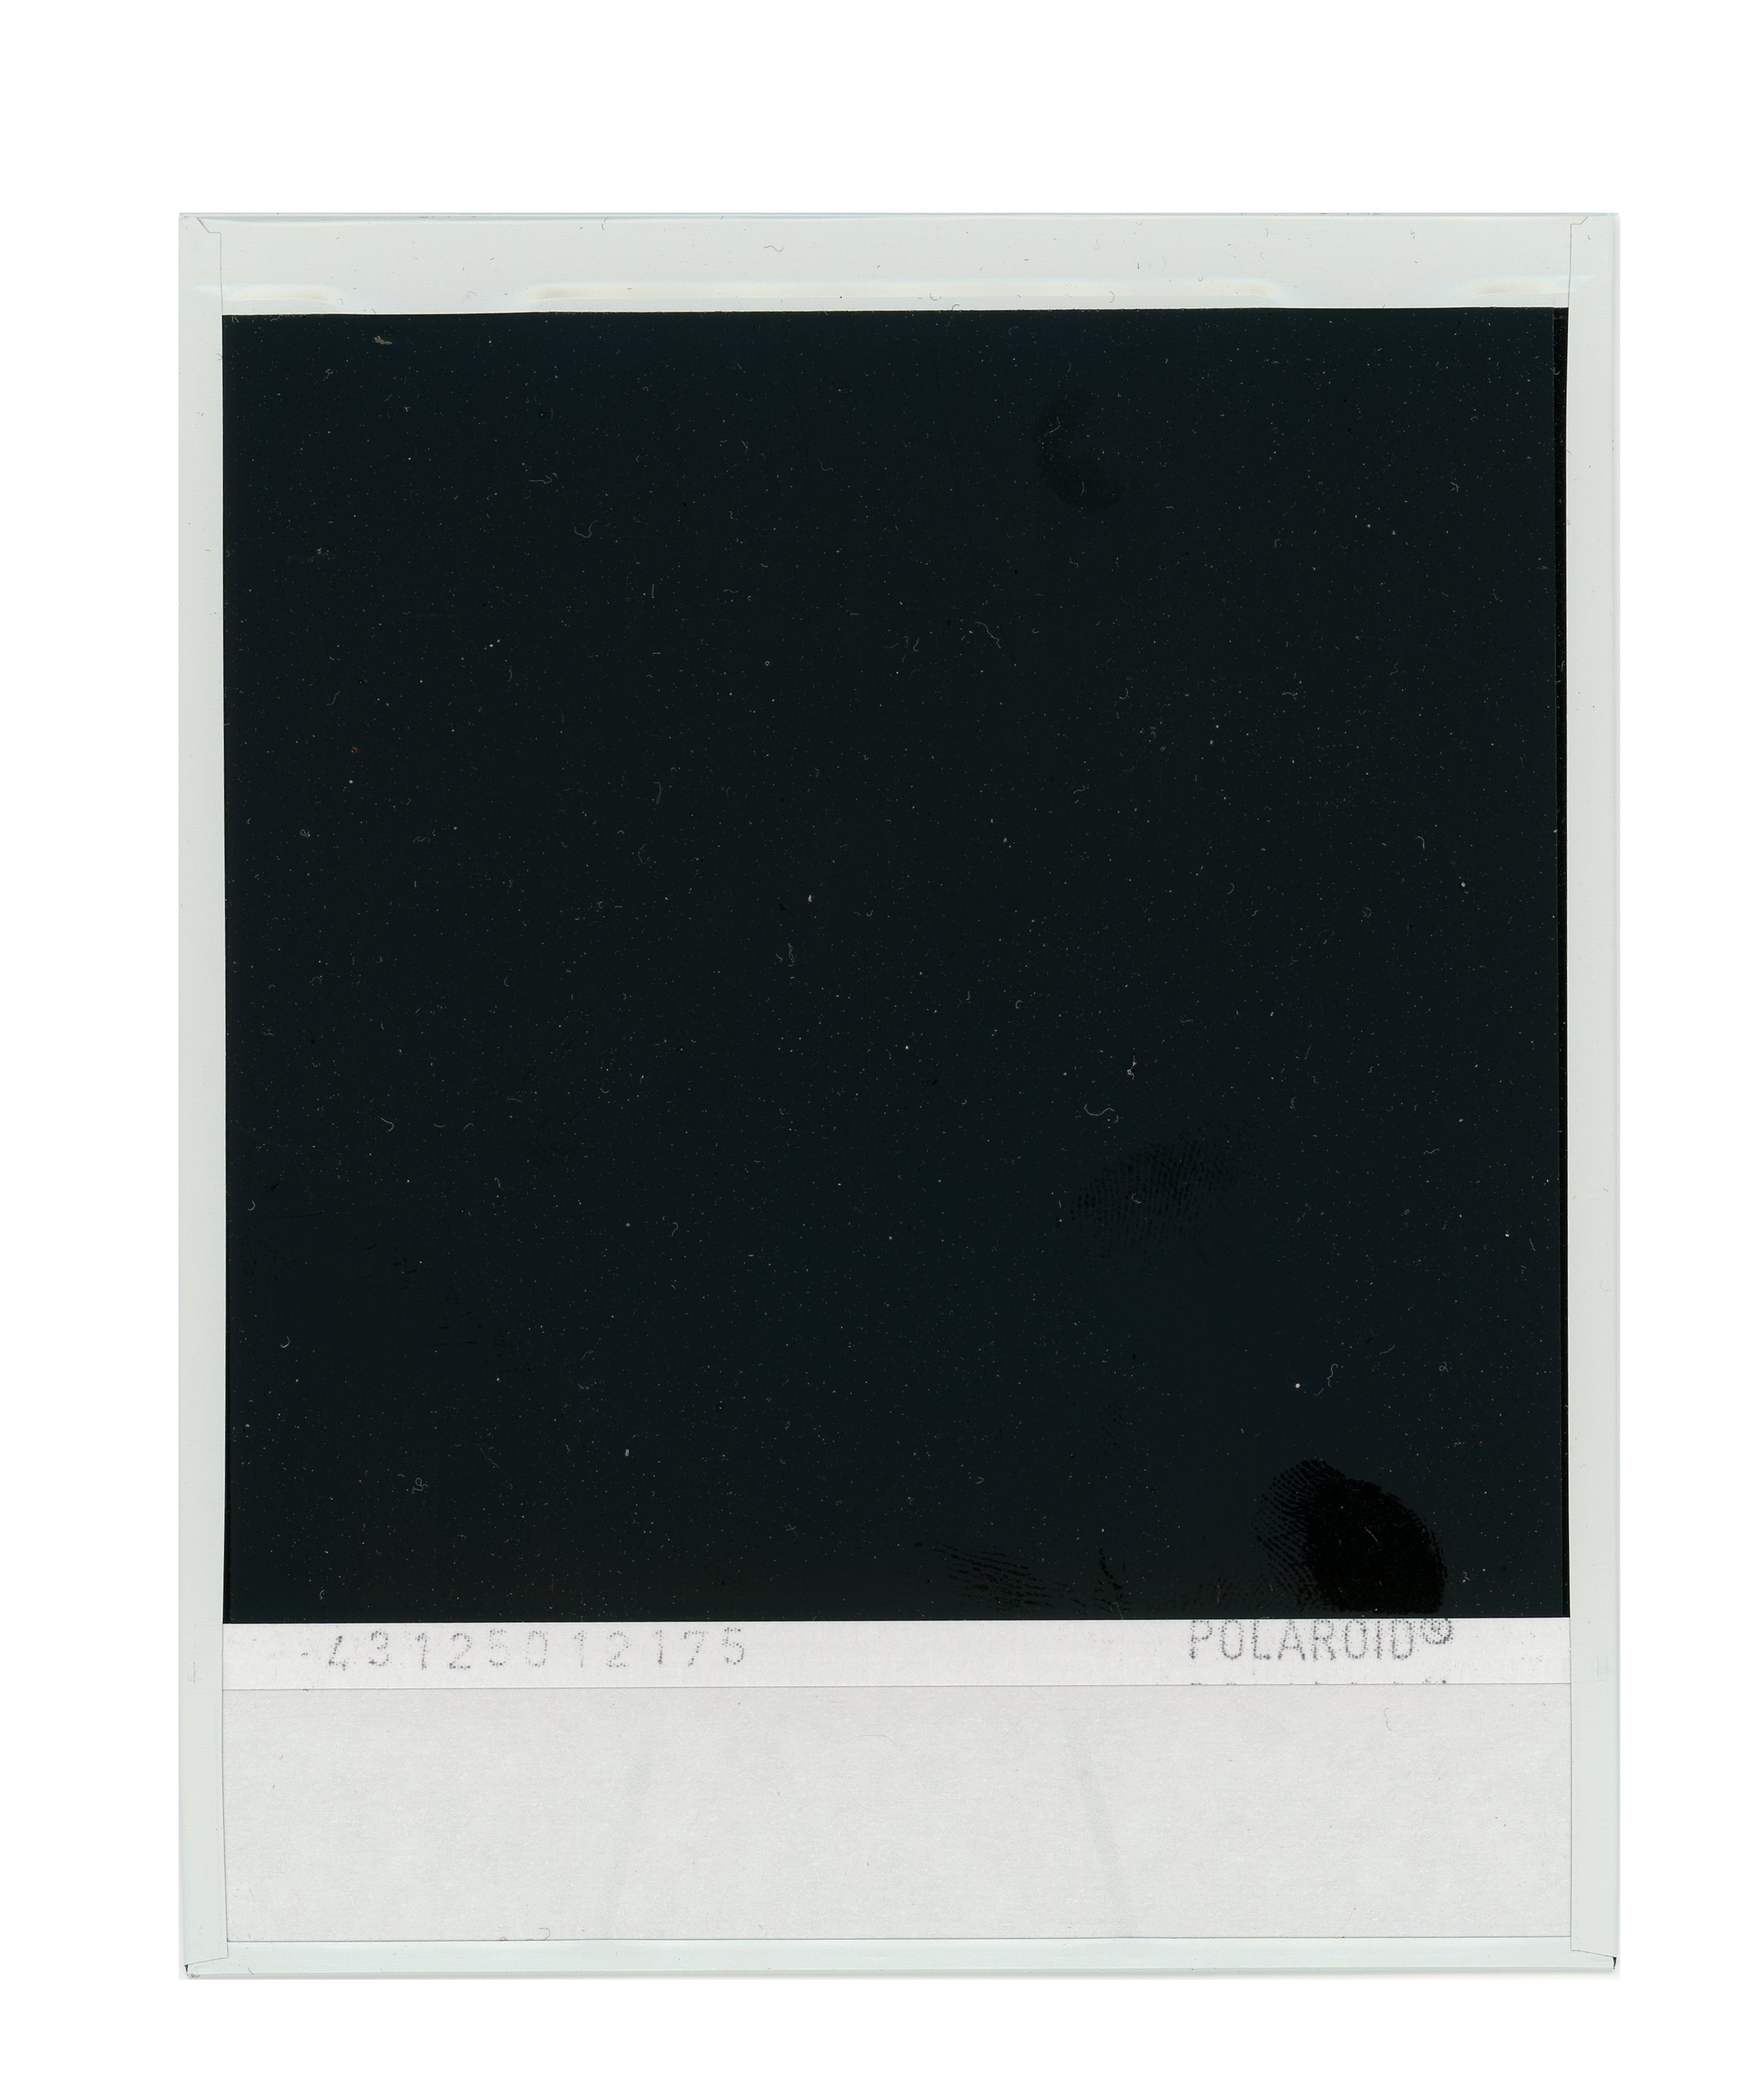
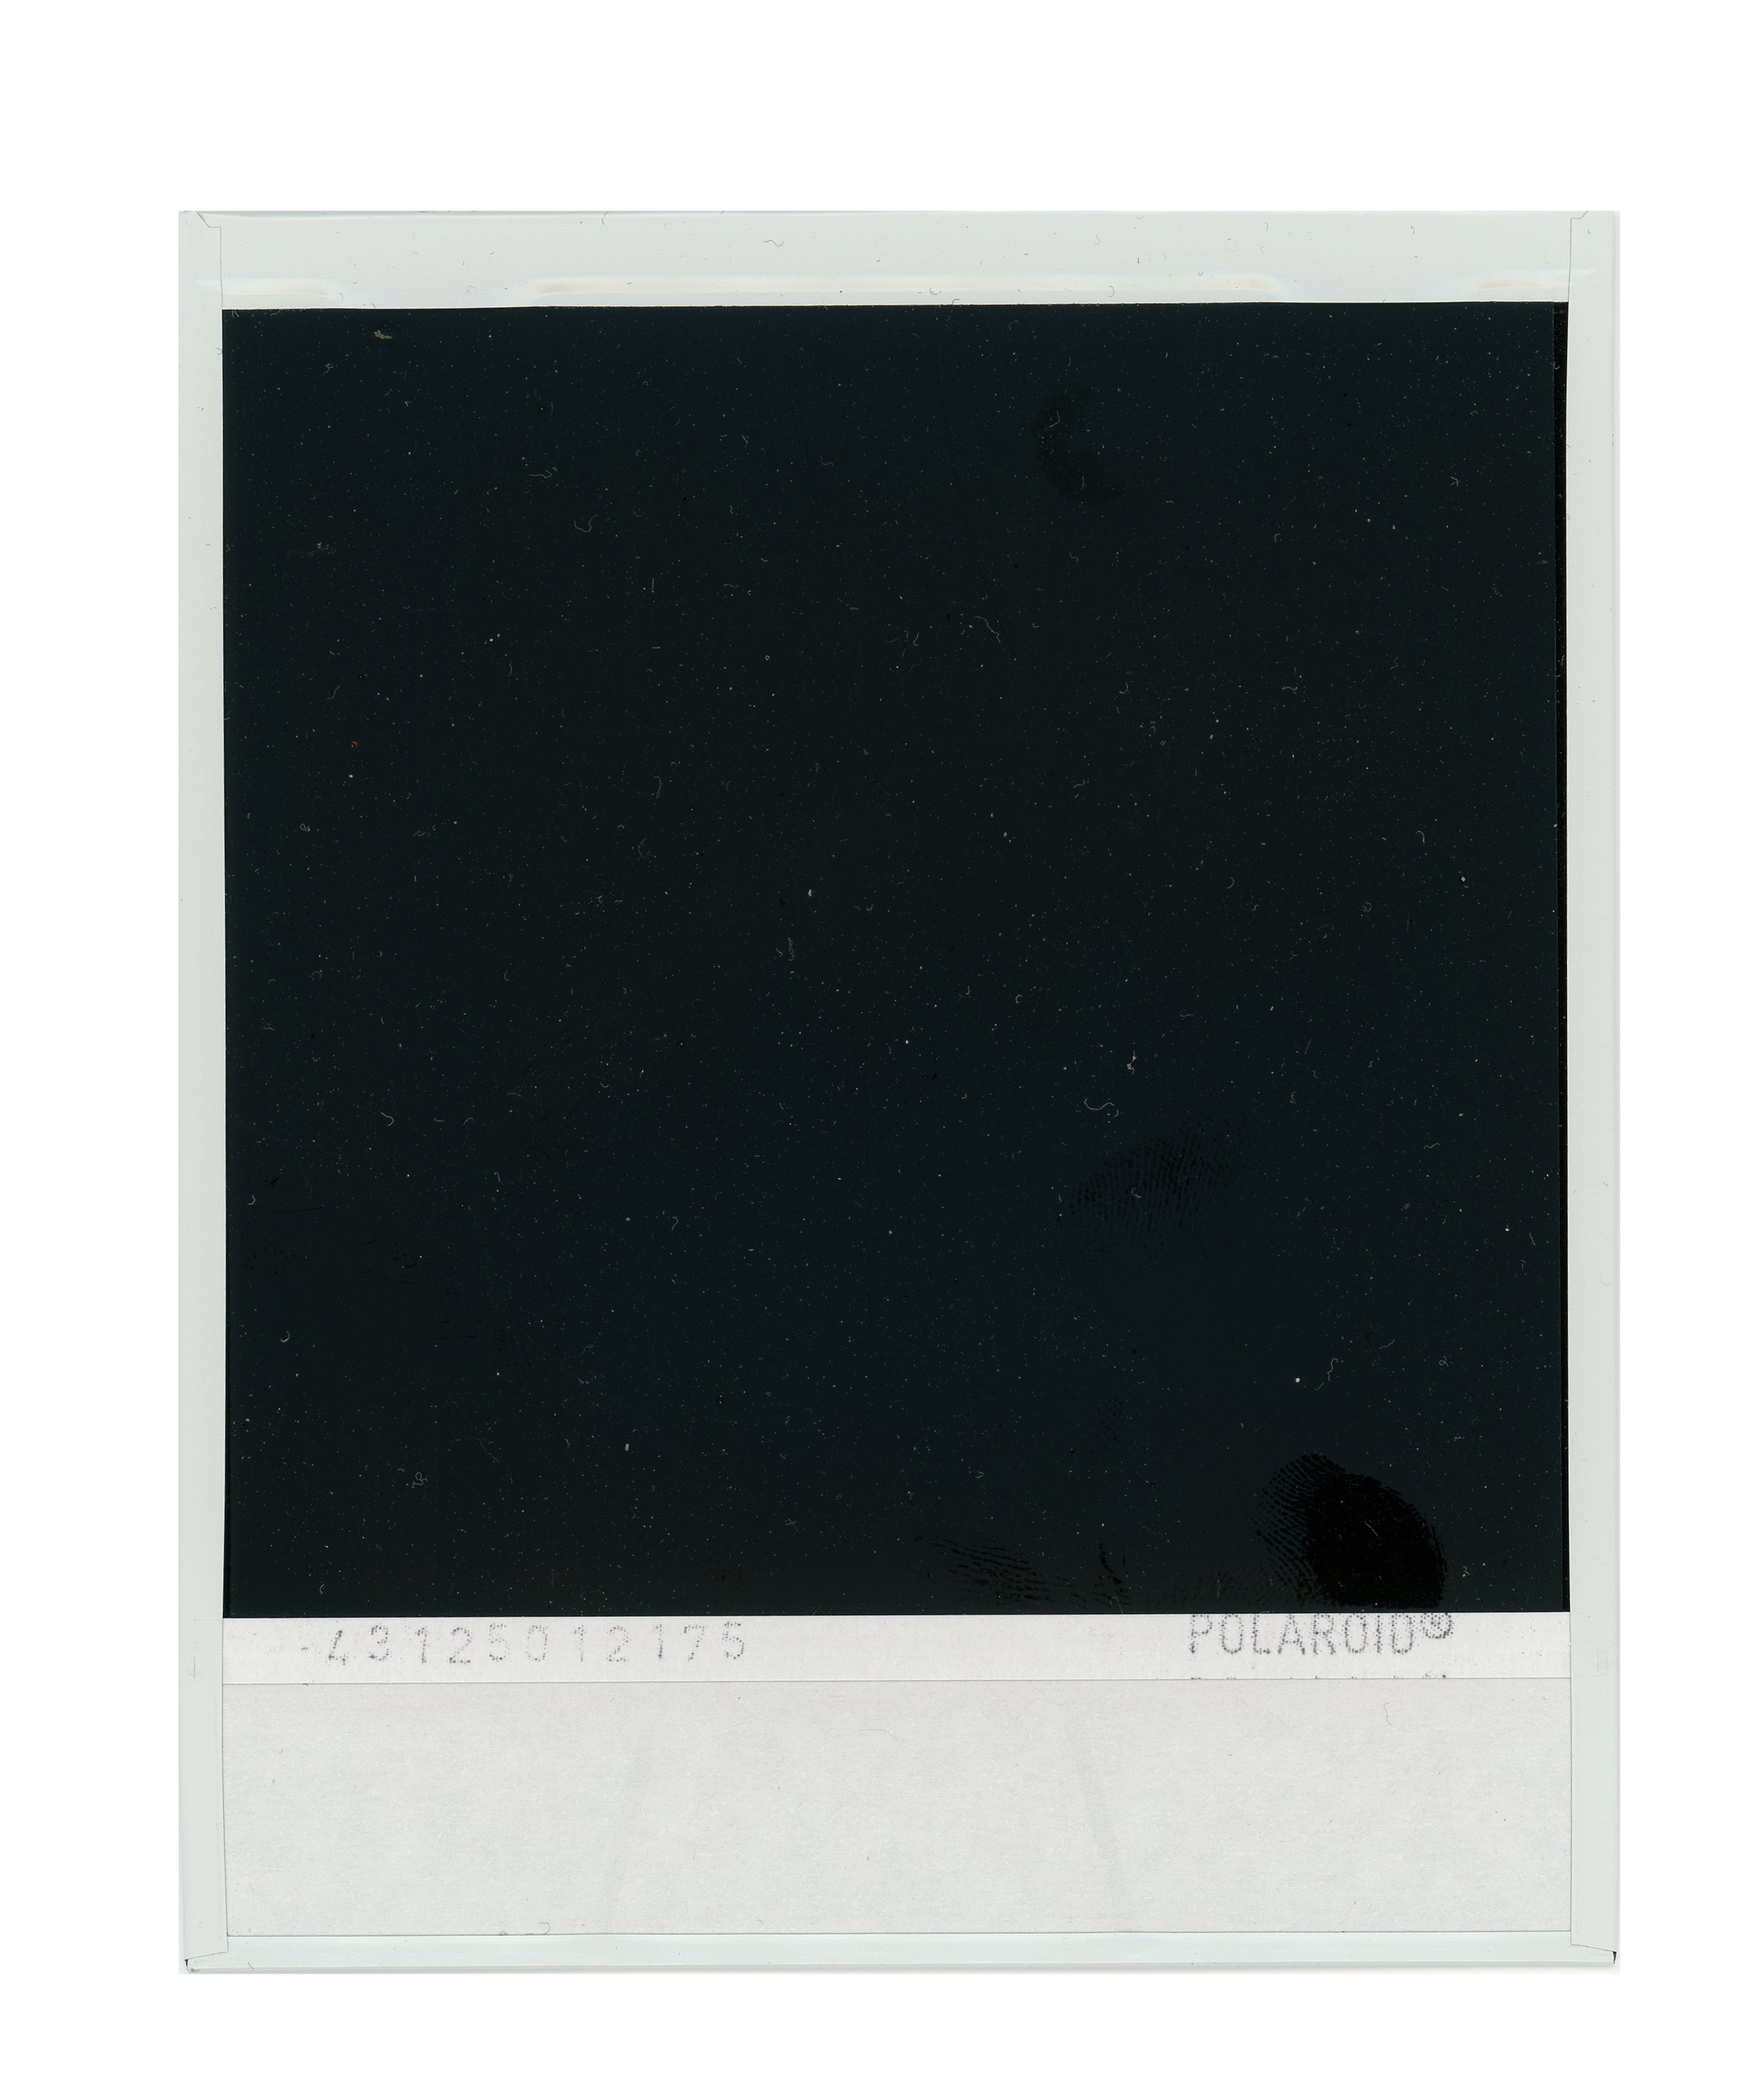
pretty much done with polaroid front

diff --git a/src/components/Polaroid/Polaroid.jsx b/src/components/Polaroid/Polaroid.jsx
@@ -2,12 +2,30 @@ import polaroidFront from '../../frames/polaroid/polaroid-front.png'
 import testImage from '../../../local-test-images/demo.gif'
 import './styles.css'
 
-export const Polaroid = ({ imgurl }) => {
+export const Polaroid = ({ imgurl, size=10, photoScale = 1, photoScaleX=1, photoScaleY=1, position=0, positionTop=0, positionLeft=0 }) => {
+
+    if(parseInt(size) < 1 || parseInt(size) >= 10){
+        size = 1
+    } else {
+        size = "." + size
+    }
+
+    if(photoScaleX != 1 || photoScaleY != 1){
+        photoScale = `${photoScaleX}, ${photoScaleY}`
+    }
+
+    if(positionLeft != 0 || positionTop != 0){
+        position = `${positionLeft}px ${positionTop}px`
+    }
 
     return (
     <>
-        <img className="frame" src={ polaroidFront } style={{maxHeight: "1000px", maxWidth: "800px"}}></img>
-        <img className="image" src={ testImage }></img>
+        <div className="container" style={{transform: `scale(${size})`}}>
+            <img className="frame" src={ polaroidFront } style={{maxHeight: "1000px", maxWidth: "800px"}}></img>
+            <div className="image">
+                <img className="innerImage" src={ imgurl } style={{transform: `scale(${photoScale})`, objectPosition: `${position}`}}></img>
+            </div>
+        </div>
     </>
     )
 }

diff --git a/src/components/Polaroid/styles.css b/src/components/Polaroid/styles.css
@@ -3,11 +3,30 @@
   top: 0;
   left: 0;
   z-index: 1;
+  -webkit-user-select: none; /* Chrome all / Safari all */
+  -moz-user-select: none; /* Firefox all */
+  -ms-user-select: none; /* IE 10+ */
+  -o-user-select: none;
+  user-select: none;
 }
 
 .image {
   position: absolute;
-  top: 150px;
-  left: 120px;
+  top: 149px;
+  left: 125px;
+  height: 600px;
+  width: 580px;
   z-index: 0;
+  overflow: hidden;
+  background-color: white;
+}
+
+.innerImage {
+  max-width: 100%;
+  max-height: 100%;
+}
+
+.container {
+  display: inline-block;
+  /* transform: scale(0.8); */
 }

diff --git a/src/stories/Polaroid.stories.js b/src/stories/Polaroid.stories.js
@@ -6,5 +6,11 @@ import { Polaroid } from "../components/Polaroid";
 const stories = storiesOf('Film', module);
 
 stories.add('Polaroid', () => {
-    return (<Polaroid/>);
+    return (<Polaroid
+        imgurl="https://scontent.xx.fbcdn.net/v/t1.15752-9/239575898_2189547184520858_2608729839477295887_n.jpg?_nc_cat=110&ccb=1-5&_nc_sid=aee45a&_nc_ohc=xk3rW6cZwNYAX8aXAiN&_nc_ad=z-m&_nc_cid=0&_nc_ht=scontent.xx&oh=7b338ee3415e8bab76080d801015f214&oe=61437347"
+        size="10"
+        photoScale="5"
+        positionTop="50"
+        positionLeft="30"
+        />);
 });

diff --git a/readme.md b/readme.md
@@ -20,9 +20,9 @@ Work in progress, not yet on npm.
 # Progress
 
 - [x] Starting with polaroid film.
-  - [ ] Polaroid frame
-  - [ ] Ability to add image
-  - [ ] Ability to add text
-  - [ ] Polaroid film styling.
+  - [x] Polaroid frame
+  - [x] Ability to add image
+  - [x] Ability to add text
+  - [x] Polaroid film styling.
 - [x] Install React and React-Dom.
 - [x] Install Storybook for viewing component while developing.
